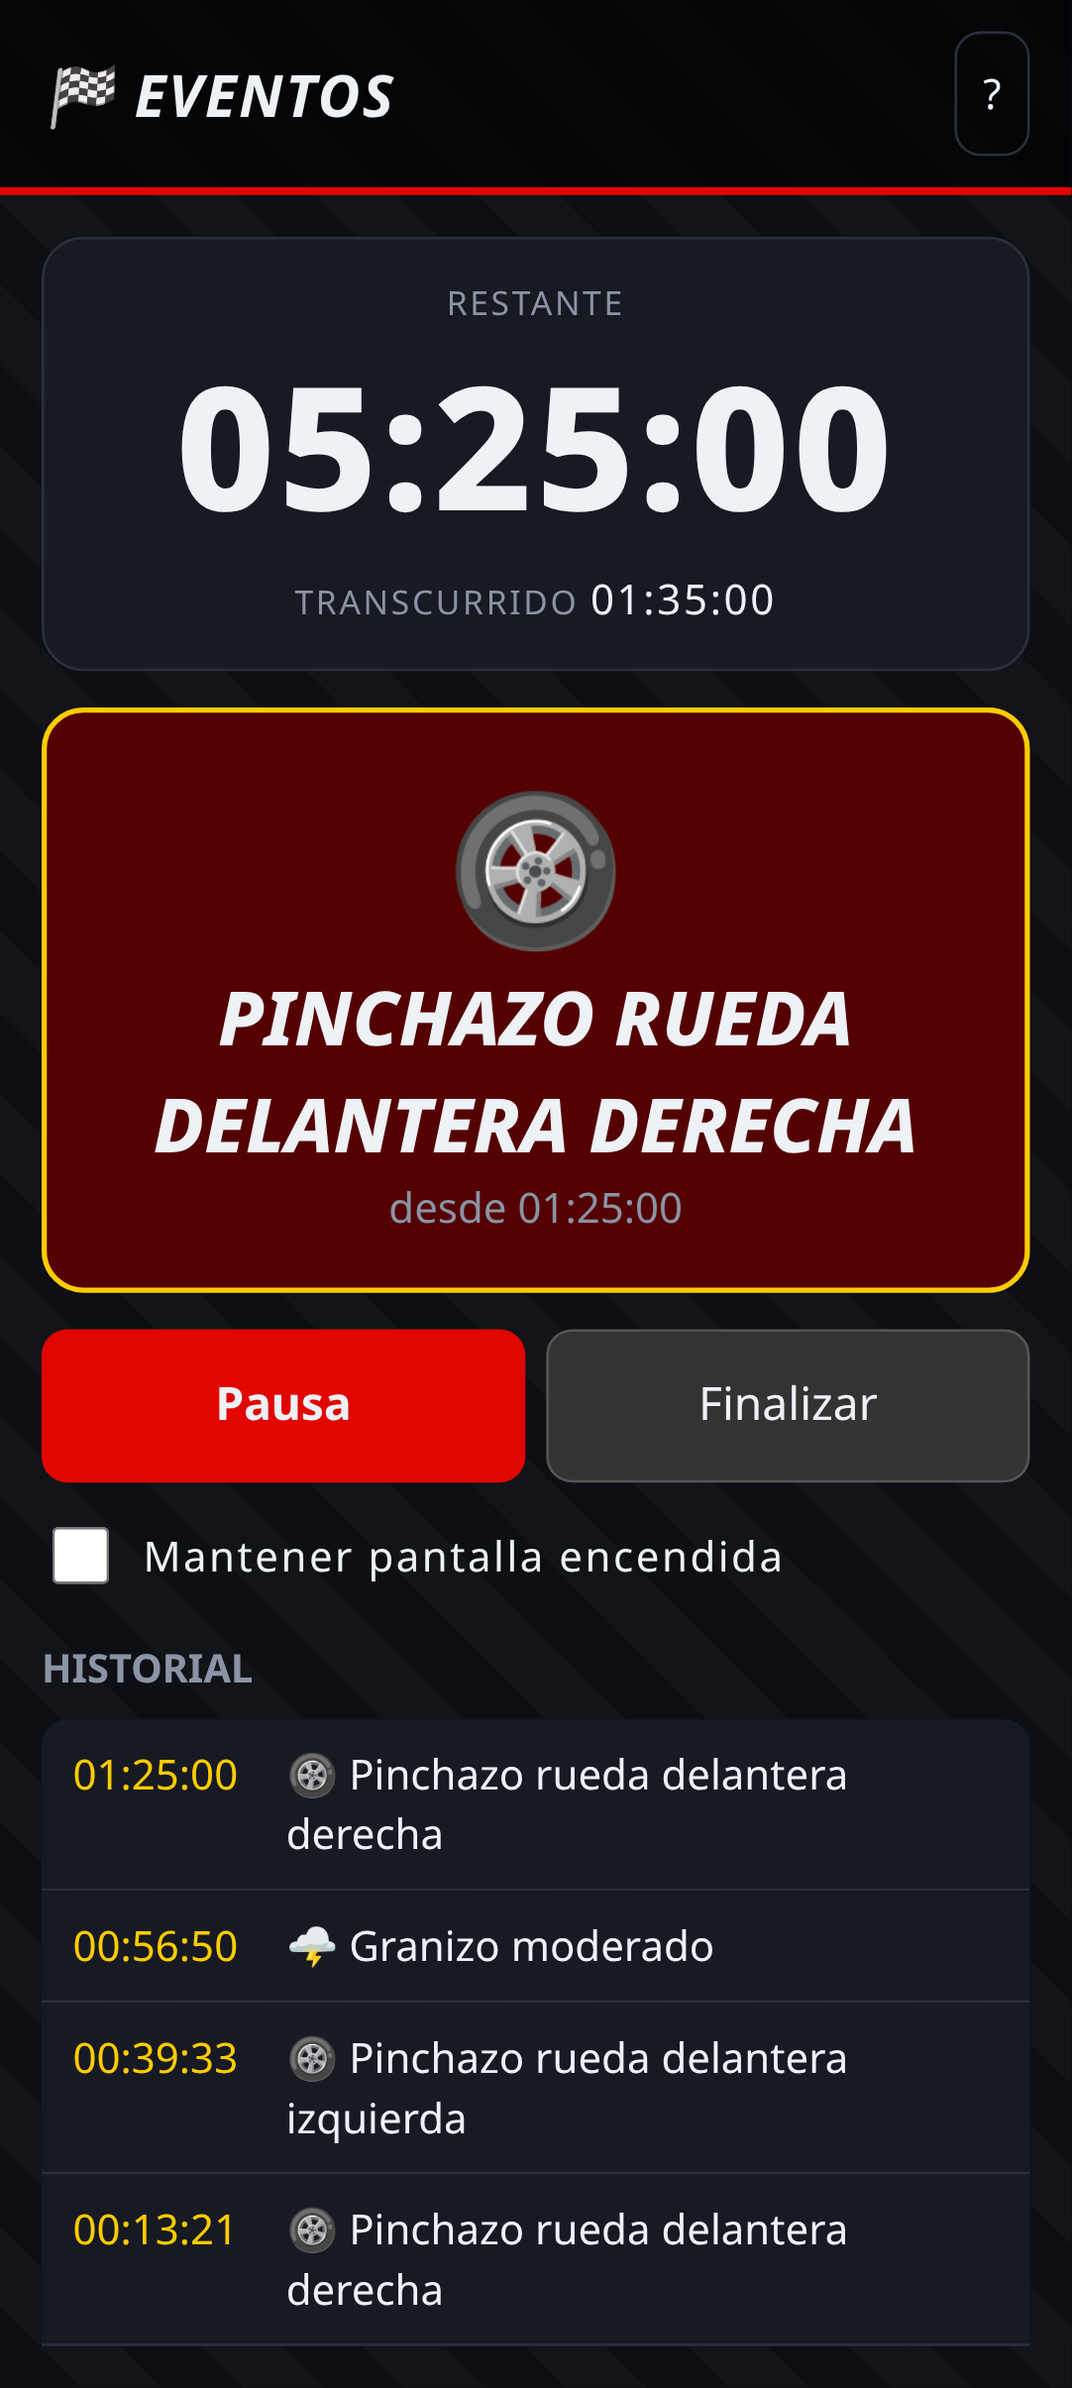
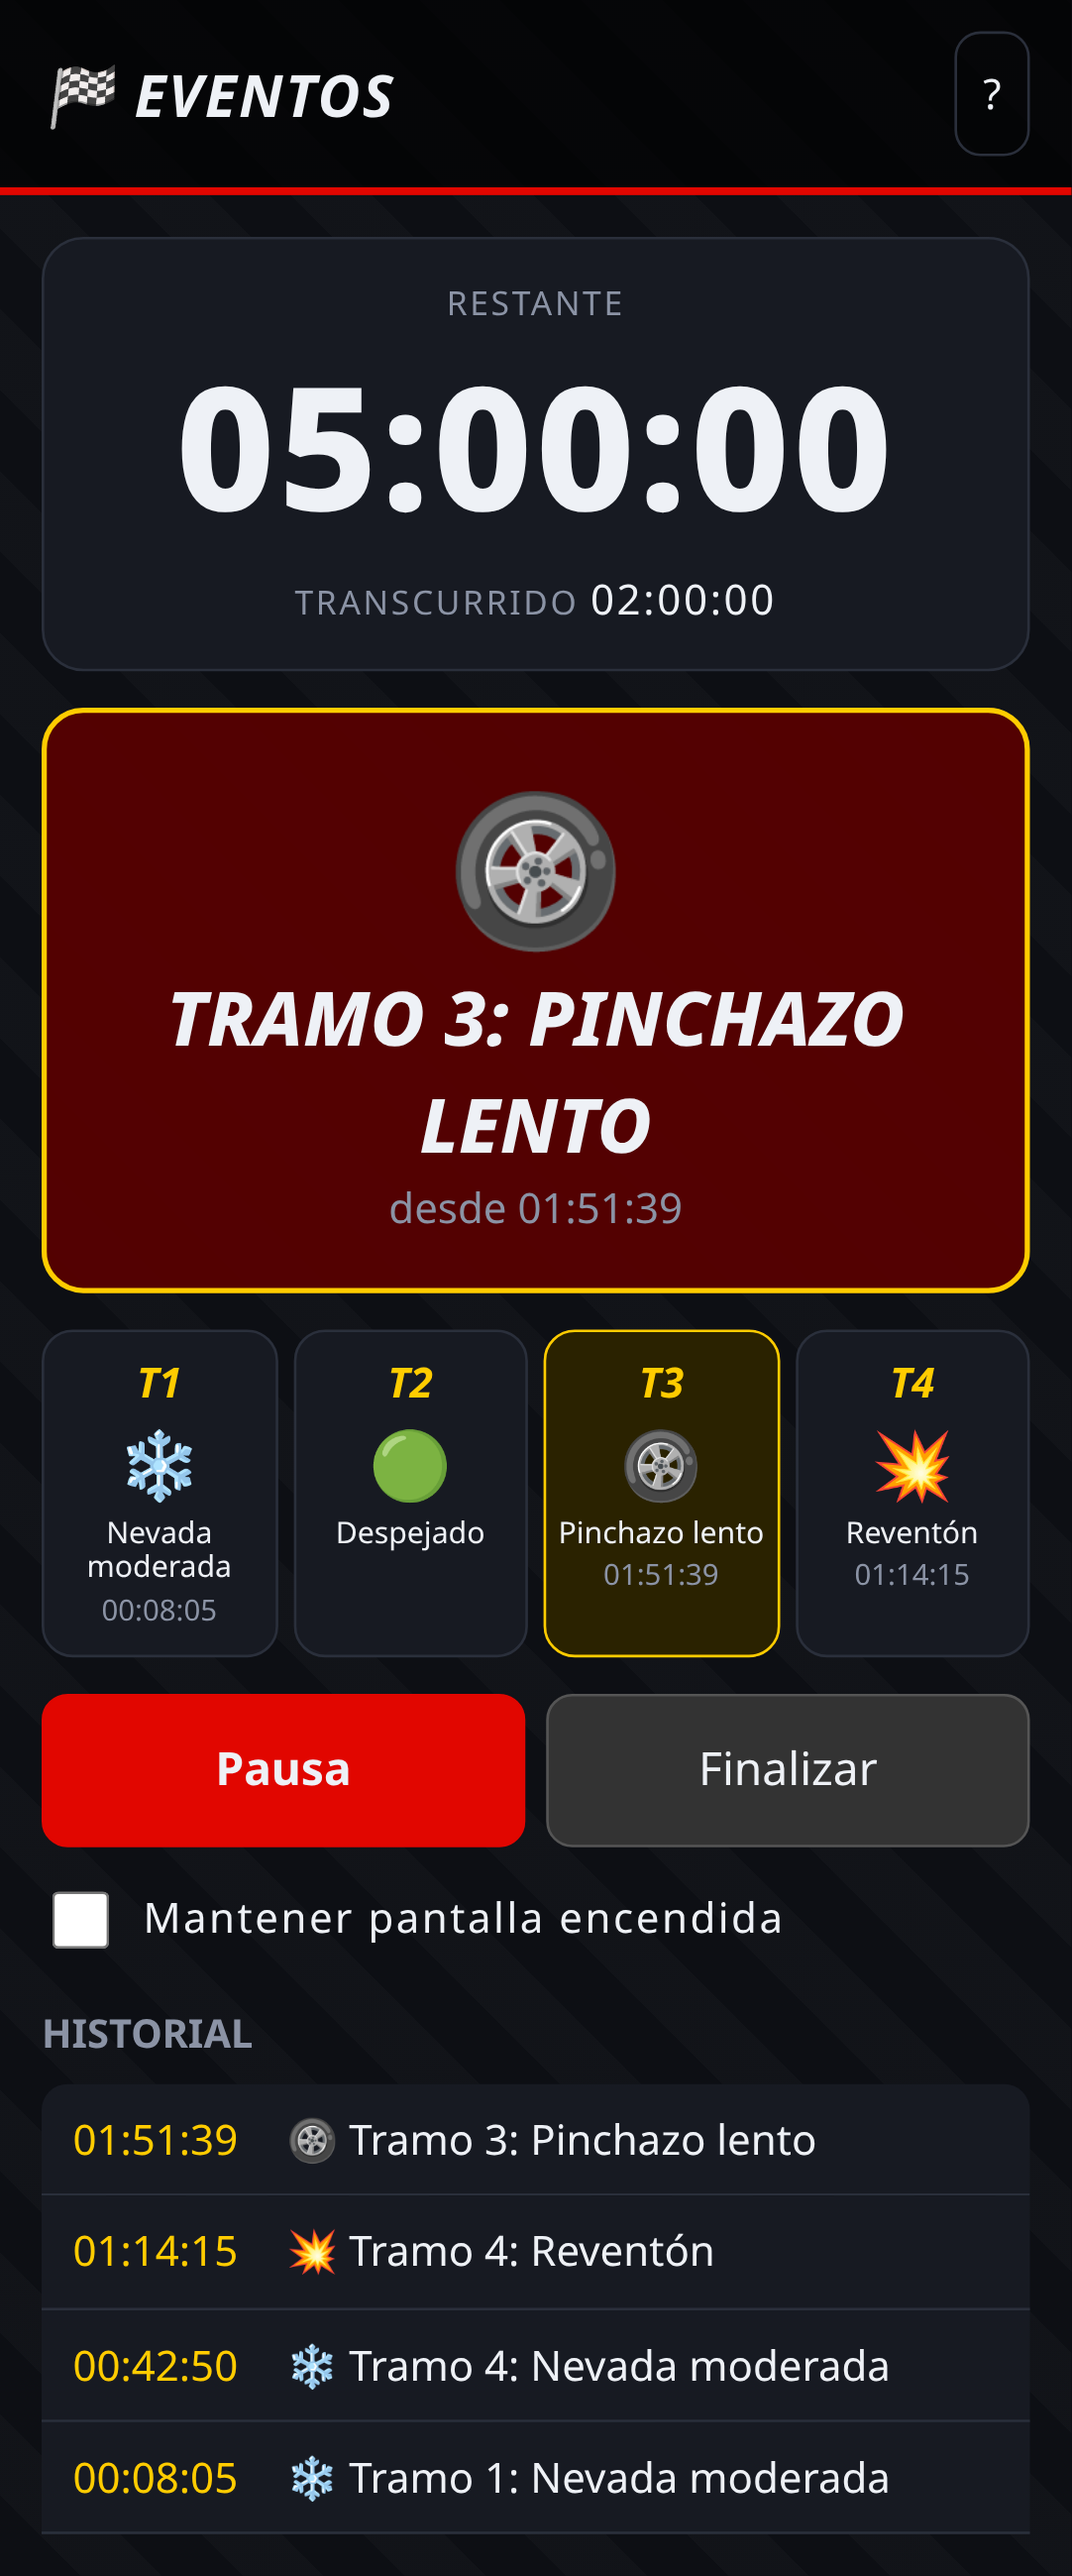
Deploy v3

Changed region(s): [[0.0, 0.0, 1.0, 0.8714], [0.2745, 0.8091, 0.8235, 0.9959], [0.061, 0.9025, 0.2135, 0.9959]]

diff --git a/app.js b/app.js
@@ -6,14 +6,8 @@ const FREQ = { suave: 45, media: 25, severa: 12 };
 const RANDOM_RANGE = [8, 50]; // Aleatoria: intervalo uniforme entre 8 y 50 min
 const FIRST_FACTOR = 0.5;     // el primer evento llega antes (media × U(0.25, 0.75))
 const STORE = 'eventos.race.v1';
-const WEATHER = [
-  { k: 'lluvia', n: 'Lluvia', f: 'f', i: '🌧' }, { k: 'niebla', n: 'Niebla', f: 'f', i: '🌫' },
-  { k: 'nevada', n: 'Nevada', f: 'f', i: '🌨' }, { k: 'hielo', n: 'Hielo', f: 'm', i: '🧊' },
-  { k: 'viento', n: 'Viento', f: 'm', i: '💨' }, { k: 'granizo', n: 'Granizo', f: 'm', i: '🌩' },
-  { k: 'tormenta', n: 'Tormenta', f: 'f', i: '⛈' }];
-const INT = { suave: { m: 'suave', f: 'suave' }, moderada: { m: 'moderado', f: 'moderada' }, intensa: { m: 'intenso', f: 'intensa' } };
-const WHEELS = ['delantera izquierda', 'delantera derecha', 'trasera izquierda', 'trasera derecha'];
-
+const SNOW = { suave: 'Nevada suave', moderada: 'Nevada moderada', intensa: 'Nevada intensa' }; // nieve = harina en pista
+const SLOW_P = { suave: 0.8, moderada: 0.55, intensa: 0.25, aleatoria: 0.5 }; // prob. de «Pinchazo lento» frente a «Reventón»
 const pick = (a, r = Math.random) => a[Math.floor(r() * a.length)];
 function nextInterval(freq, r = Math.random, first = false) {
   let ms = freq === 'aleatoria'
@@ -21,12 +15,19 @@ function nextInterval(freq, r = Math.random, first = false) {
     : FREQ[freq] * (0.5 + r()) * MIN;
   return Math.round(first ? ms * FIRST_FACTOR : ms);
 }
+// Los eventos no tienen duración: solo se anuncian.
 function makeEvent(cfg, r = Math.random) {
+  const tramo = 1 + Math.floor(r() * (cfg.tramos || 3));
   const kind = cfg.type === 'ambos' ? (r() < 0.6 ? 'clima' : 'pinchazos') : cfg.type;
-  if (kind === 'pinchazos') return { kind, icon: '🛞', text: 'Pinchazo rueda ' + pick(WHEELS, r) };
-  const w = pick(WEATHER, r);
-  const lvl = cfg.intensity === 'aleatoria' ? pick(Object.keys(INT), r) : cfg.intensity;
-  return { kind, icon: w.i, text: w.n + ' ' + INT[lvl][w.f], level: lvl };
+  let ev;
+  if (kind === 'pinchazos') {
+    const slow = r() < SLOW_P[cfg.intensity];
+    ev = { kind, icon: slow ? '🛞' : '💥', label: slow ? 'Pinchazo lento' : 'Reventón' };
+  } else {
+    const lvl = cfg.intensity === 'aleatoria' ? pick(Object.keys(SNOW), r) : cfg.intensity;
+    ev = { kind, icon: '❄', label: SNOW[lvl], level: lvl };
+  }
+  return { ...ev, tramo, text: `Tramo ${tramo}: ${ev.label}` };
 }
 
 // ===== Estado (basado en marcas de tiempo) =====
@@ -119,6 +120,12 @@ function render() {
   $('#current .cicon').textContent = S.finished ? '🏁' : last ? last.icon : '🟢';
   $('#current .ctext').textContent = S.finished ? 'Carrera terminada' : last ? last.text : 'Pista despejada';
   $('#current .ctime').textContent = last && !S.finished ? 'desde ' + fmt(last.at) : '';
+  const n = S.cfg.tramos || 3, tg = $('#tramos');
+  tg.style.gridTemplateColumns = `repeat(${n},1fr)`;
+  tg.innerHTML = Array.from({ length: n }, (_, i) => {
+    const e = S.events.filter(x => x.tramo === i + 1).at(-1);
+    return `<div class="tramo${e && e === last ? ' new' : ''}" data-tramo="${i + 1}"><b>T${i + 1}</b><span class="ti">${e ? e.icon : '🟢'}</span><small>${e ? e.label : 'Despejado'}</small>${e ? `<time>${fmt(e.at)}</time>` : ''}</div>`;
+  }).join('');
   const h = $('#history');
   if (h.childElementCount !== S.events.length) {
     h.innerHTML = '';
@@ -143,7 +150,7 @@ function init() {
     if (ms <= 0) return alert('Indica una duración');
     alarm(); // desbloquea el audio con un gesto del usuario
     if ('Notification' in window && Notification.permission === 'default') Notification.requestPermission().then(render);
-    startRace({ durationMs: ms, type: segVal('type'), freq: segVal('freq'), intensity: segVal('intensity') });
+    startRace({ durationMs: ms, type: segVal('type'), freq: segVal('freq'), intensity: segVal('intensity'), tramos: +segVal('tramos') });
     render();
   };
   $('#pauseBtn').onclick = () => { S.pausedAt ? resume() : pause(); render(); };

diff --git a/tests/eventos.spec.js b/tests/eventos.spec.js
@@ -6,9 +6,10 @@ test.beforeEach(async ({ page }) => {
   await page.goto('/');
   await page.clock.pauseAt(new Date('2026-10-15T10:00:02'));
 });
-async function start(page, freq = 'severa', type = 'Ambos') {
+async function start(page, freq = 'severa', type = 'Ambos', tramos = '3') {
+  await page.click(`.seg[data-name=tramos] button[data-v="${tramos}"]`);
   await page.fill('#hours', '2'); await page.fill('#minutes', '0');
-  await page.click(`.seg[data-name=type] button:text("${type}")`);
+  await page.click(`.seg[data-name=type] button:has-text("${type}")`);
   await page.click(`.seg[data-name=freq] button[data-v=${freq}]`);
   await page.click('#startBtn');
   await expect(page.locator('#remaining')).toHaveText('02:00:00');
@@ -20,15 +21,21 @@ test('intervalos y eventos generados', async ({ page }) => {
       const xs = Array.from({ length: 2000 }, () => E.nextInterval(f) / 60000);
       out[f] = { min: Math.min(...xs), max: Math.max(...xs), avg: xs.reduce((a, b) => a + b) / xs.length };
     }
-    out.p = E.makeEvent({ type: 'pinchazos', intensity: 'suave' }).text;
-    out.c = E.makeEvent({ type: 'clima', intensity: 'intensa' }).text;
+    out.p = Array.from({ length: 500 }, () => E.makeEvent({ type: 'pinchazos', intensity: 'aleatoria', tramos: 5 }).text);
+    out.c = Array.from({ length: 200 }, () => E.makeEvent({ type: 'clima', intensity: 'intensa', tramos: 4 }).text);
+    out.cr = Array.from({ length: 300 }, () => E.makeEvent({ type: 'clima', intensity: 'aleatoria', tramos: 3 }).label);
+    out.slowSuave = Array.from({ length: 2000 }, () => E.makeEvent({ type: 'pinchazos', intensity: 'suave' }).label === 'Pinchazo lento').filter(Boolean).length;
+    out.slowIntensa = Array.from({ length: 2000 }, () => E.makeEvent({ type: 'pinchazos', intensity: 'intensa' }).label === 'Pinchazo lento').filter(Boolean).length;
     return out;
   });
   expect(r.severa.min).toBeGreaterThanOrEqual(6); expect(r.severa.max).toBeLessThanOrEqual(18);
   expect(Math.abs(r.media.avg - 25)).toBeLessThan(1.5); expect(Math.abs(r.suave.avg - 45)).toBeLessThan(2.5);
   expect(r.aleatoria.min).toBeGreaterThanOrEqual(8); expect(r.aleatoria.max).toBeLessThanOrEqual(50);
-  expect(r.p).toMatch(/^Pinchazo rueda (delantera|trasera) (izquierda|derecha)$/);
-  expect(r.c).toMatch(/(intensa|intenso)$/);
+  for (const p of r.p) expect(p).toMatch(/^Tramo [1-5]: (Pinchazo lento|Reventón)$/);
+  expect(new Set(r.p.map(p => p.slice(0, 7))).size).toBe(5);
+  for (const c of r.c) expect(c).toMatch(/^Tramo [1-4]: Nevada intensa$/);
+  expect(new Set(r.cr)).toEqual(new Set(['Nevada suave', 'Nevada moderada', 'Nevada intensa']));
+  expect(r.slowSuave).toBeGreaterThan(r.slowIntensa + 600);
 });
 test('los eventos se disparan con el tiempo y quedan en el historial', async ({ page }) => {
   await start(page, 'severa');
@@ -40,6 +47,17 @@ test('los eventos se disparan con el tiempo y quedan en el historial', async ({ 
   for (const e of evs) expect(e.at).toBeLessThanOrEqual(60 * M + 2000);
   await expect(page.locator('#current .ctext')).toHaveText(evs.at(-1).text);
   await expect(page.locator('#elapsed')).toHaveText('01:00:00');
+});
+test('tramos visibles con el último evento de cada uno', async ({ page }) => {
+  await start(page, 'severa', 'Ambos', '5');
+  await expect(page.locator('#tramos .tramo')).toHaveCount(5);
+  await page.clock.fastForward(90 * M);
+  const evs = await page.evaluate(() => window.Eventos.state.events);
+  for (const e of evs) expect(e.text).toMatch(/^Tramo [1-5]: (Nevada (suave|moderada|intensa)|Pinchazo lento|Reventón)$/);
+  for (let i = 1; i <= 5; i++) {
+    const last = evs.filter(e => e.tramo === i).at(-1);
+    await expect(page.locator(`.tramo[data-tramo="${i}"] small`)).toHaveText(last ? last.label : 'Despejado');
+  }
 });
 test('pausa congela tiempo y eventos; reanudar continúa', async ({ page }) => {
   await start(page, 'severa');

diff --git a/index.html b/index.html
@@ -21,9 +21,13 @@
     <input id="hours" type="number" min="0" max="48" value="7" inputmode="numeric"><span>h</span>
     <input id="minutes" type="number" min="0" max="59" value="0" inputmode="numeric"><span>min</span>
   </div>
+  <label>Tramos simultáneos</label>
+  <div class="seg tramosel" data-name="tramos">
+    <button data-v="3" class="on">3</button><button data-v="4">4</button><button data-v="5">5</button>
+  </div>
   <label>Tipo de eventos</label>
   <div class="seg" data-name="type">
-    <button data-v="clima">Climatología</button><button data-v="pinchazos">Pinchazos</button><button data-v="ambos" class="on">Ambos</button>
+    <button data-v="clima">Climatología (nieve)</button><button data-v="pinchazos">Pinchazos</button><button data-v="ambos" class="on">Ambos</button>
   </div>
   <label>Frecuencia</label>
   <div class="seg" data-name="freq">
@@ -45,6 +49,7 @@
     <div id="pausedTag" class="paused hidden">EN PAUSA</div>
   </div>
   <div id="current" class="current"><div class="cicon">🟢</div><div class="ctext">Pista despejada</div><div class="ctime"></div></div>
+  <div id="tramos" class="tramos"></div>
   <div class="row btns">
     <button id="pauseBtn" class="primary">Pausa</button>
     <button id="endBtn" class="danger">Finalizar</button>
@@ -58,7 +63,7 @@
 
 <dialog id="help">
   <h2>Ayuda</h2>
-  <p>Eventos simula un rally: durante la carrera lanza al azar eventos de clima (lluvia, niebla, nevada, hielo, viento, granizo, tormenta) y pinchazos.</p>
+  <p>Eventos simula un rally: durante la carrera lanza al azar eventos en los tramos: nevadas (suave, moderada o intensa; la nieve es harina en pista) y pinchazos («Pinchazo lento» o «Reventón»). Cada evento cae en un tramo al azar y solo se anuncia: no tiene duración ni aviso de fin. Con intensidad suave predominan los pinchazos lentos; con intensa, los reventones.</p>
   <p><b>Frecuencia</b> (intervalo medio entre eventos, cada intervalo varía ±50 % al azar):<br>
   Suave ≈ 45 min · Media ≈ 25 min · Severa ≈ 12 min · Aleatoria: cada intervalo entre 8 y 50 min.</p>
   <p><b>Pausa</b> congela el tiempo y los eventos (ideal para comer). La carrera se guarda: si recargas la página, continúa donde estaba.</p>

diff --git a/style.css b/style.css
@@ -42,3 +42,8 @@ h3{margin:20px 0 8px;text-transform:uppercase;font-size:.95rem;color:var(--mut)}
 dialog{background:var(--card);color:var(--txt);border:1px solid var(--line);border-radius:16px;max-width:520px}
 dialog::backdrop{background:#000c}
 .note{background:#2a2200;border-left:4px solid var(--yel);padding:8px 10px;border-radius:6px}
+.tramosel button{font-size:2rem;font-weight:800;padding:16px;font-style:italic}
+.tramos{display:grid;gap:6px;margin-bottom:14px}
+.tramo{background:var(--card);border:1px solid var(--line);border-radius:12px;padding:8px 4px;text-align:center;display:flex;flex-direction:column;gap:2px;min-width:0}
+.tramo b{color:var(--yel);font-style:italic}.tramo .ti{font-size:1.6rem}.tramo small{font-size:.72rem;line-height:1.2}
+.tramo time{color:var(--mut);font-size:.7rem}.tramo.new{border-color:var(--yel);background:#2a2200}

diff --git a/shots.js b/shots.js
@@ -4,7 +4,7 @@ const { chromium, devices } = require('@playwright/test');
   await p.clock.install({ time: new Date('2026-10-15T10:00:00') });
   await p.goto(process.argv[2]); await p.clock.pauseAt(new Date('2026-10-15T10:00:02'));
   await p.screenshot({ path: 'screenshots/01-configuracion.png' });
-  await p.fill('#hours','7'); await p.click('#startBtn'); await p.clock.fastForward(95*60e3);
+  await p.click('.seg[data-name=tramos] button[data-v="4"]'); await p.fill('#hours','7'); await p.click('#startBtn'); await p.clock.fastForward(120*60e3);
   await p.waitForTimeout(300); await p.screenshot({ path: 'screenshots/02-carrera.png', fullPage: true });
   await p.click('#pauseBtn'); await p.click('#helpBtn'); await p.screenshot({ path: 'screenshots/03-pausa-ayuda.png' });
   await b.close();

diff --git a/sw.js b/sw.js
@@ -1,4 +1,4 @@
-const CACHE = 'eventos-v2';
+const CACHE = 'eventos-v3';
 const ASSETS = ['./','index.html','style.css','app.js','manifest.webmanifest','icons/icon-192.png','icons/icon-512.png'];
 self.addEventListener('install', e => { e.waitUntil(caches.open(CACHE).then(c => c.addAll(ASSETS))); self.skipWaiting(); });
 self.addEventListener('activate', e => { e.waitUntil(caches.keys().then(ks => Promise.all(ks.filter(k => k !== CACHE).map(k => caches.delete(k)))).then(() => self.clients.claim())); });

diff --git a/README.md b/README.md
@@ -1,5 +1,5 @@
 # Eventos · Simulador de rally para Scalextric
-PWA (HTML/CSS/JS sin frameworks) que lanza eventos aleatorios de clima y pinchazos durante una carrera.
+PWA (HTML/CSS/JS sin frameworks) que lanza eventos aleatorios en 3, 4 o 5 tramos simultáneos: nevadas (harina) suave/moderada/intensa y pinchazos («Pinchazo lento» o «Reventón», ponderados por intensidad: lento 80 % suave, 55 % moderada, 25 % intensa, 50 % aleatoria). Los eventos solo se anuncian, sin duración.
 En vivo: https://blancolang-ai.github.io/eventos/
 
 ## Frecuencias (intervalo medio entre eventos)
